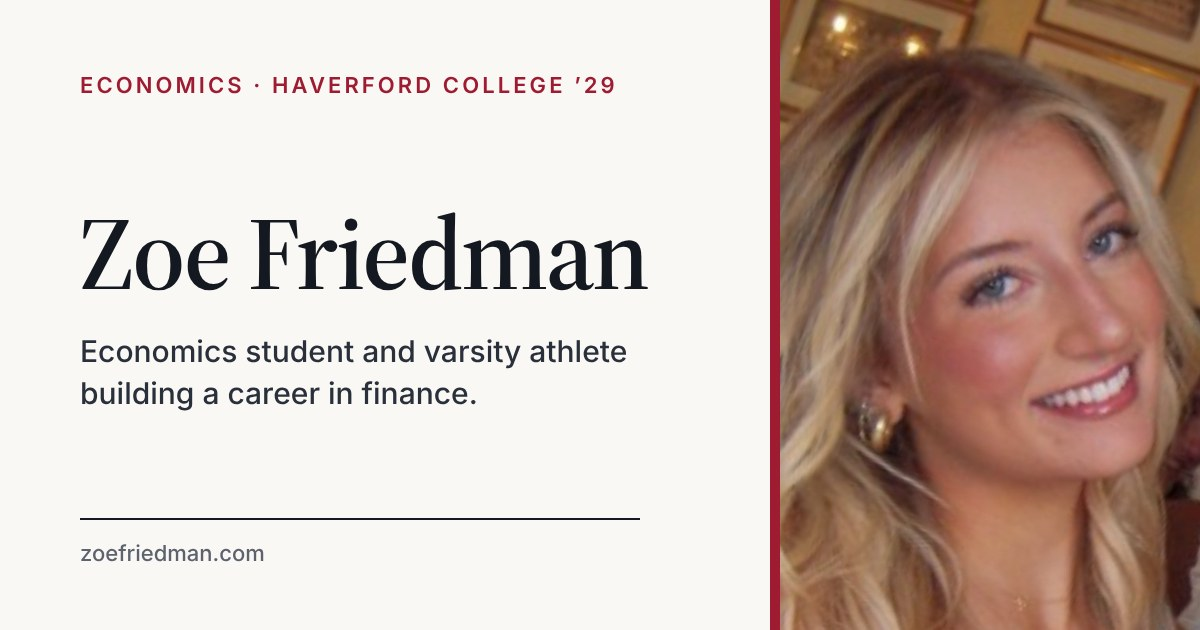
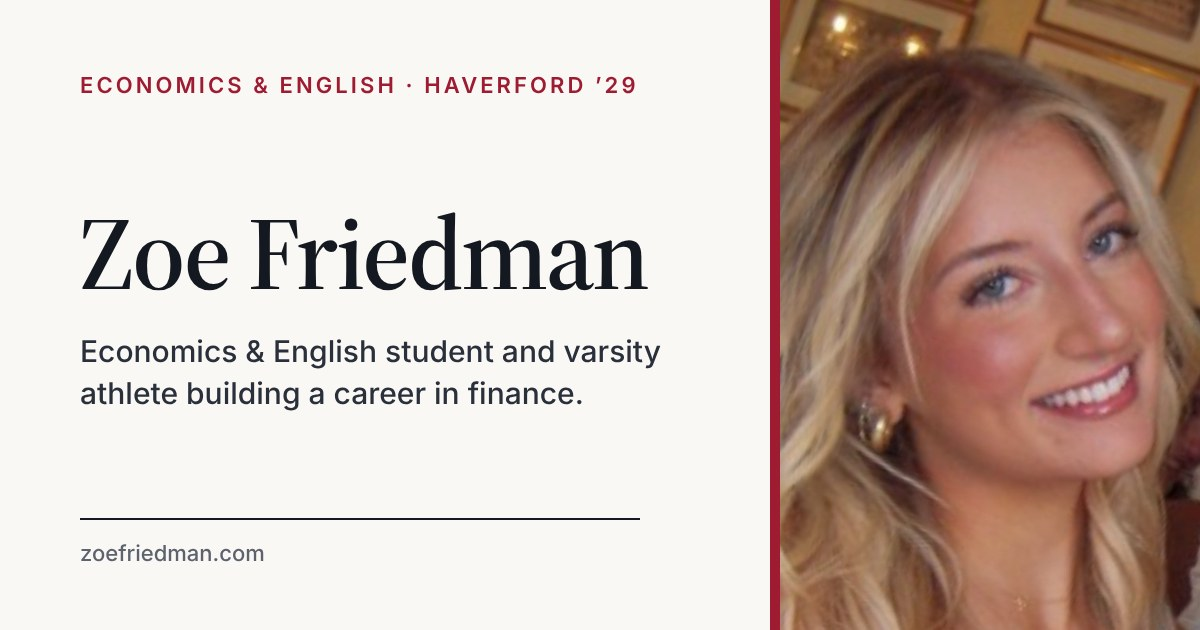
Update profile from LinkedIn: TCW internship, AESOP, Her Tel Aviv, SGU chapter, double major, education
Claude-Session: https://claude.ai/code/session_01HYFvqHdAN5YhEsG5RDZnuz

Changed region(s): [[0.0617, 0.5429, 0.555, 0.6635], [0.2158, 0.1206, 0.555, 0.1508]]

diff --git a/index.html b/index.html
@@ -4,8 +4,8 @@
   <meta charset="utf-8" />
   <meta name="viewport" content="width=device-width, initial-scale=1" />
 
-  <title>Zoe Friedman | Economics at Haverford College · Finance</title>
-  <meta name="description" content="Zoe Friedman is an Economics student at Haverford College (Class of 2029) pursuing a career in finance. Founder of Haverford Private Equity &amp; Venture Capital, varsity softball player, and NFCA All-America Scholar Athlete." />
+  <title>Zoe Friedman | Haverford College · Economics &amp; Finance</title>
+  <meta name="description" content="Zoe Friedman is an Economics &amp; English student at Haverford College (Class of 2029) building a career in finance. Former TCW summer intern, varsity softball player, and NFCA All-America Scholar Athlete." />
   <meta name="author" content="Zoe Friedman" />
   <meta name="robots" content="index, follow, max-image-preview:large" />
   <link rel="canonical" href="https://www.zoefriedman.com/" />
@@ -14,8 +14,8 @@
   <!-- Link previews (LinkedIn, iMessage, Slack, etc.) -->
   <meta property="og:type" content="profile" />
   <meta property="og:site_name" content="Zoe Friedman" />
-  <meta property="og:title" content="Zoe Friedman — Economics at Haverford College" />
-  <meta property="og:description" content="Economics student at Haverford College pursuing a career in finance. Founder of Haverford Private Equity &amp; Venture Capital." />
+  <meta property="og:title" content="Zoe Friedman — Haverford College" />
+  <meta property="og:description" content="Economics &amp; English student at Haverford College building a career in finance. Former TCW summer intern and NFCA All-America Scholar Athlete." />
   <meta property="og:url" content="https://www.zoefriedman.com/" />
   <meta property="og:image" content="https://www.zoefriedman.com/images/web/og-image.jpg" />
   <meta property="og:image:width" content="1200" />
@@ -24,8 +24,8 @@
   <meta property="profile:first_name" content="Zoe" />
   <meta property="profile:last_name" content="Friedman" />
   <meta name="twitter:card" content="summary_large_image" />
-  <meta name="twitter:title" content="Zoe Friedman — Economics at Haverford College" />
-  <meta name="twitter:description" content="Economics student at Haverford College pursuing a career in finance." />
+  <meta name="twitter:title" content="Zoe Friedman — Haverford College" />
+  <meta name="twitter:description" content="Economics &amp; English student at Haverford College building a career in finance." />
   <meta name="twitter:image" content="https://www.zoefriedman.com/images/web/og-image.jpg" />
 
   <link rel="icon" href="favicon.svg" type="image/svg+xml" />
@@ -68,7 +68,7 @@
         "url": "https://www.zoefriedman.com/",
         "image": "https://www.zoefriedman.com/images/web/zoe-friedman-headshot.jpg",
         "email": "mailto:zfriedman@haverford.edu",
-        "description": "Economics student at Haverford College (Class of 2029) pursuing a career in finance; founder of Haverford Private Equity & Venture Capital and varsity softball outfielder.",
+        "description": "Economics & English student at Haverford College (Class of 2029) building a career in finance; former TCW summer intern, varsity softball outfielder, and NFCA All-America Scholar Athlete.",
         "homeLocation": { "@type": "Place", "name": "New York, NY" },
         "award": ["NFCA All-America Scholar Athlete (2026)"],
         "alumniOf": [
@@ -78,9 +78,10 @@
         "memberOf": [
           { "@type": "Organization", "name": "Haverford Private Equity & Venture Capital" },
           { "@type": "Organization", "name": "Haverford Finance Initiative" },
+          { "@type": "Organization", "name": "Strong Girls United" },
           { "@type": "SportsTeam", "name": "Haverford College Softball", "sport": "Softball" }
         ],
-        "knowsAbout": ["Economics", "Finance", "Private Equity", "Venture Capital", "Investing", "Leadership"],
+        "knowsAbout": ["Economics", "Finance", "Asset-Based Finance", "Private Equity", "Venture Capital", "Microsoft Excel", "English Literature", "Leadership"],
         "sameAs": [
           "https://www.linkedin.com/in/zoe-friedman-4519b3386/",
           "https://haverfordathletics.com/sports/softball/roster/zoe--friedman/10756"
@@ -122,9 +123,9 @@
       <div class="wrap">
         <div class="hero-grid">
           <div>
-            <p class="eyebrow">Economics · Haverford College ’29</p>
+            <p class="eyebrow">Economics &amp; English · Haverford College ’29</p>
             <h1 id="hero-title">Zoe Friedman</h1>
-            <p class="lede">Economics student and varsity athlete building a career in finance.</p>
+            <p class="lede">Economics and English student and varsity athlete building a career in finance.</p>
             <div class="hero-actions">
               <a class="btn" href="#contact">Get in touch</a>
               <a class="btn btn-ghost" href="https://www.linkedin.com/in/zoe-friedman-4519b3386/" target="_blank" rel="noopener me">
@@ -148,11 +149,11 @@
         <dl class="facts">
           <div class="fact">
             <dt>Education</dt>
-            <dd>Haverford College<span>Economics · Class of 2029</span></dd>
+            <dd>Haverford College<span>Economics &amp; English · Class of 2029</span></dd>
           </div>
           <div class="fact">
-            <dt>Leadership</dt>
-            <dd>Founder<span>Haverford Private Equity &amp; Venture Capital</span></dd>
+            <dt>Experience</dt>
+            <dd>TCW<span>Summer Intern, ABF Team</span></dd>
           </div>
           <div class="fact">
             <dt>Athletics</dt>
@@ -169,25 +170,25 @@
         <div class="reveal">
           <h2 id="about-title">Analytical, competitive, and team-first.</h2>
           <div class="prose">
-            <p>Zoe Friedman is an Economics student at Haverford College, Class of 2029, focused on building a career in finance. She founded Haverford Private Equity &amp; Venture Capital and is a member of the Haverford Finance Initiative.</p>
-            <p>A graduate of The Spence School in New York, she also plays outfield for Haverford’s varsity softball team and was named an NFCA All-America Scholar Athlete in 2026. She brings the same competitiveness and team-first approach to the classroom and to every initiative she takes on. Beyond finance and athletics, Zoe is committed to women’s empowerment and youth advocacy, with roles at Strong Girls United and Ronald McDonald House New York.</p>
+            <p>Zoe Friedman is an Economics and English double major at Haverford College, Class of 2029, building a career in finance. She has interned with the ABF team at TCW in New York, completed AESOP Academy &amp; Advisory’s Applied Professional Skills Accelerator as an analyst participant, and is a BICEP Fellow at Haverford.</p>
+            <p>She plays outfield for Haverford’s varsity softball team and was named an NFCA All-America Scholar Athlete in 2026. As the founder and president of Haverford’s Strong Girls United chapter, she works to help girls build confidence, resilience, and self-trust through mentorship and sports, bringing the same competitiveness and team-first approach to every initiative she takes on.</p>
           </div>
 
           <div class="focus-grid">
             <div class="focus">
               <span class="num">01</span>
-              <h3>Finance &amp; Investing</h3>
-              <p>Building a foundation in markets and private capital through student-led investing organizations at Haverford.</p>
+              <h3>Finance</h3>
+              <p>Hands-on exposure to asset-based finance at TCW and analyst training in Microsoft Excel.</p>
             </div>
             <div class="focus">
               <span class="num">02</span>
               <h3>Leadership</h3>
-              <p>Founding and growing a student organization, with a focus on team building and project coordination.</p>
+              <p>Founder and president of a campus chapter, and a two-sport varsity captain in high school.</p>
             </div>
             <div class="focus">
               <span class="num">03</span>
-              <h3>Community Impact</h3>
-              <p>Youth advocacy, outreach, and creating opportunities for others to grow.</p>
+              <h3>Communication</h3>
+              <p>An English major’s writing and analysis, paired with an economist’s quantitative toolkit.</p>
             </div>
           </div>
         </div>
@@ -199,11 +200,28 @@
       <div class="wrap section-grid">
         <p class="section-label"><b>02</b>Experience</p>
         <div class="reveal">
-          <h2 id="experience-title">Building in finance, leading in the community.</h2>
+          <h2 id="experience-title">Experience &amp; education.</h2>
 
           <div class="xp-group">
-            <h3>Finance &amp; Leadership</h3>
+            <h3>Finance</h3>
             <ul class="xp-list">
+              <li class="xp">
+                <div class="xp-date">Sep 2026 – Oct 2026</div>
+                <div>
+                  <p class="xp-role">Analyst Participant, Applied Professional Skills Accelerator</p>
+                  <p class="xp-org">AESOP Academy &amp; Advisory</p>
+                  <p class="xp-meta">Skills: Microsoft Excel</p>
+                  <p class="xp-desc">Developed foundational Excel skills to efficiently build and populate polished, analyst-quality reports.</p>
+                </div>
+              </li>
+              <li class="xp">
+                <div class="xp-date">Jul 2024</div>
+                <div>
+                  <p class="xp-role">Summer Intern, ABF Team</p>
+                  <p class="xp-org">TCW</p>
+                  <p class="xp-meta">New York, NY · On-site</p>
+                </div>
+              </li>
               <li class="xp">
                 <div class="xp-date">Sep 2025 – Present</div>
                 <div>
@@ -224,14 +242,23 @@
           </div>
 
           <div class="xp-group">
-            <h3>Community &amp; Athletics</h3>
+            <h3>Leadership &amp; Community</h3>
             <ul class="xp-list">
               <li class="xp">
                 <div class="xp-date">Sep 2025 – Present</div>
                 <div>
-                  <p class="xp-role">Student Ambassador</p>
+                  <p class="xp-role">Student Ambassador; Haverford Chapter Founder &amp; President</p>
                   <p class="xp-org">Strong Girls United</p>
-                  <p class="xp-meta">Remote · Part-time</p>
+                  <p class="xp-meta">Haverford, PA &amp; remote</p>
+                  <p class="xp-desc">Founded and leads Haverford’s Strong Girls United chapter. Planned and led a dedication softball game that launched the team’s partnership with SGU, bringing players together with young girls and families to promote confidence and mentorship through sports.</p>
+                </div>
+              </li>
+              <li class="xp">
+                <div class="xp-date">May 2026 – Jul 2026</div>
+                <div>
+                  <p class="xp-role">Summer Intern</p>
+                  <p class="xp-org">Her Tel Aviv</p>
+                  <p class="xp-meta">Internship</p>
                 </div>
               </li>
               <li class="xp">
@@ -252,6 +279,28 @@
               </li>
             </ul>
           </div>
+
+          <div class="xp-group">
+            <h3>Education</h3>
+            <ul class="xp-list">
+              <li class="xp">
+                <div class="xp-date">2025 – 2029</div>
+                <div>
+                  <p class="xp-role">Economics &amp; English</p>
+                  <p class="xp-org">Haverford College</p>
+                  <p class="xp-meta">Varsity Softball · Strong Girls United Chapter Founder &amp; President · BICEP Fellow</p>
+                </div>
+              </li>
+              <li class="xp">
+                <div class="xp-date">2021 – 2025</div>
+                <div>
+                  <p class="xp-role">High School Diploma</p>
+                  <p class="xp-org">The Spence School</p>
+                  <p class="xp-meta">New York, NY · Varsity Softball Captain · Varsity Soccer Captain · JCC President</p>
+                </div>
+              </li>
+            </ul>
+          </div>
         </div>
       </div>
     </section>
@@ -265,7 +314,7 @@
             <h2 id="athletics-title">Varsity softball at Haverford.</h2>
             <div class="prose">
               <p>As a first-year outfielder in 2026, Zoe started 40 games for Haverford, hit .304, and led the team with 36 RBI, fourth-most in the Centennial Conference. She also tied for the conference lead with 13 sacrifice hits and was named an NFCA All-America Scholar Athlete, an honor that recognizes academic achievement alongside athletic performance.</p>
-              <p>Before Haverford, she was a four-time AAIS Softball League All-Star at The Spence School, and in summer 2025 she managed a youth softball division at West Side Sports in New York.</p>
+              <p>At The Spence School she captained both the varsity softball and soccer teams and was a four-time AAIS Softball League All-Star. In summer 2025 she managed a youth softball division at West Side Sports in New York.</p>
             </div>
 
             <dl class="stats" aria-label="2026 season statistics">
